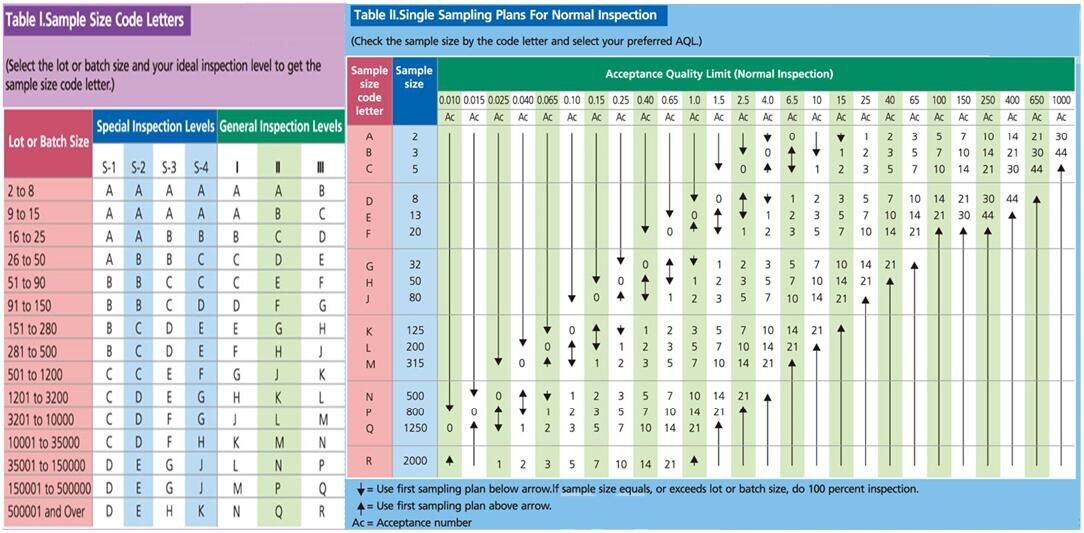
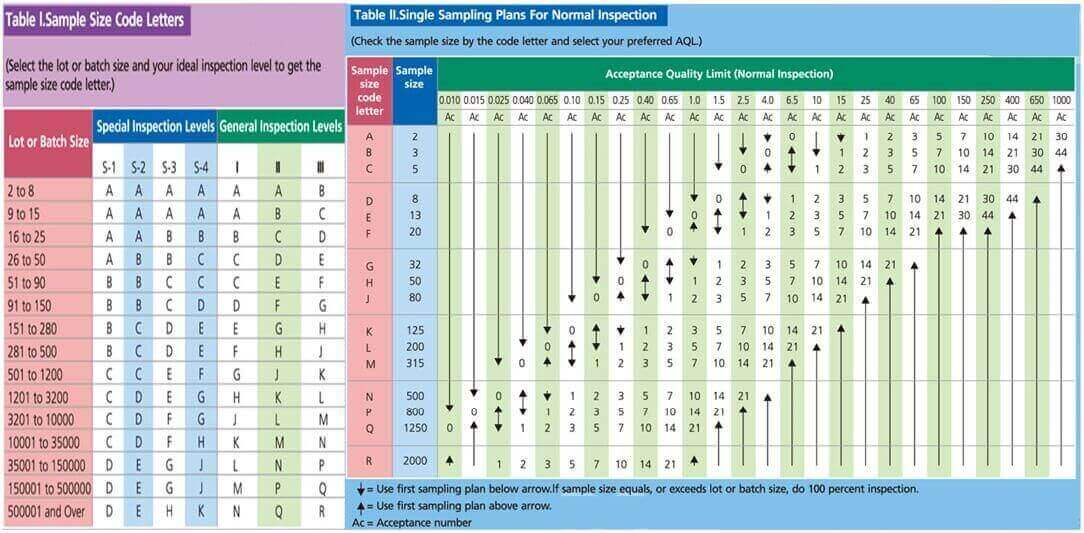
fix: remove trailing slashes from /services and /contact internal links (14x)

diff --git a/industry-updates/ansi-asq-z1-4-guide.html b/industry-updates/ansi-asq-z1-4-guide.html
@@ -138,7 +138,7 @@ Understand the hands-on inspection standard: Product Category Applications & Pra
             <tr><td data-zh="特殊检验水平">Special Inspection</td><td>S-1 ~ S-4</td><td data-zh="极小">Very small</td><td data-zh="样本采集成本极高，或批量极大但缺陷无功能性影响">Destructive tests, very large lots, non-functional defects</td></tr>
           </tbody>
         </table>
-        <p><span data-zh="实际使用中，一般检验水平II是绝对的主力——约95%的常规<a href='/services/'><strong>产品检验</strong></a>都采用这一水平。">In practice, <strong>General Inspection Level II</strong> is the workhorse — approximately 95% of all routine </span><a href="/services/"><strong>product inspections</strong></a><span> use this level.</span></p>
+        <p><span data-zh="实际使用中，一般检验水平II是绝对的主力——约95%的常规<a href='/services/'><strong>产品检验</strong></a>都采用这一水平。">In practice, <strong>General Inspection Level II</strong> is the workhorse — approximately 95% of all routine </span><a href="/services"><strong>product inspections</strong></a><span> use this level.</span></p>
 
         <h3 data-zh="2.2 AQL 值的设定">2.2 Setting AQL Values</h3>
         <p data-zh="AQL代表客户可接受的整批产品平均缺陷率上限。常用AQL值包括：0.065、0.10、0.15、0.25、0.40、0.65、1.0、1.5、2.5、4.0、6.5。不同缺陷等级通常设定不同的AQL值：">AQL represents the customer&rsquo;s acceptable maximum average defect rate for a lot. Common AQL values range from 0.065 to 6.5. Different defect categories typically have different AQL values:</p>
@@ -167,7 +167,7 @@ Understand the hands-on inspection standard: Product Category Applications & Pra
         </table>
         <p data-zh="这种机制通过经济和质量的双重压力，激励供应商持续维持良好的过程质量。一旦切换至加严检验，供应商的货物被拒收的概率大幅上升——没有人愿意冒这个风险。">This mechanism creates both an economic and quality-based incentive for <a href="/services#audit">suppliers</a> to maintain consistent process quality. Once switched to tightened inspection, the probability of lot rejection increases significantly — and no supplier wants to risk that.</p>
 
-        <img src="/Upload/aql-guide/aql-flow.jpg" alt="ANSI/ASQ Z1.4 Five-Step AQL Sampling Inspection Process Flowchart" loading="lazy" onerror="this.style.display='none'" width="800" height="600">
+        <img src="/Upload/aql-guide/aql-flow.png" alt="ANSI/ASQ Z1.4 Five-Step AQL Sampling Inspection Process Flowchart" loading="lazy" onerror="this.style.display='none'" width="800" height="600">
         <p class="figure-caption" data-zh="ANSI/ASQ Z1.4 AQL抽样检验五步操作流程">Figure: ANSI/ASQ Z1.4 Sampling Inspection — The 5-Step Process</p>
 
         <h2 data-zh="三、实际操作流程（五步法）">3. Practical Implementation: The Five-Step Process</h2>
@@ -183,7 +183,7 @@ Understand the hands-on inspection standard: Product Category Applications & Pra
         <span data-zh="必须严格随机抽取样本——杜绝工厂刻意挑选"合格"样品的做法。统计各类缺陷数量，与Ac/Re对比做出接收或拒收的决定。抽查不是随便抽几个看看，而是一个有统计学依据的严谨过程。">Samples must be drawn strictly at random — no cherry-picking of &ldquo;good&rdquo; units by the factory. Count defects by class and compare against Ac/Re to make the accept/reject decision. Sampling inspection is not a casual glance at a few units — it is a rigorous, statistically grounded process.</span></p>
 
         <img src="/Upload/aql-guide/aql-products.jpg" alt="Product inspection across different categories: textiles, electronics, toys, and hardware" loading="lazy" onerror="this.style.display='none'" width="800" height="600">
-        <p class="figure-caption"><span data-zh="不同产品类目的检验场景：纺织服装、电子电器、玩具婴童、五金机械">Figure: </span><a href="/services/">Product Inspection</a><span> Across Different Categories — Textiles, Electronics, Toys &amp; Hardware</span></p>
+        <p class="figure-caption"><span data-zh="不同产品类目的检验场景：纺织服装、电子电器、玩具婴童、五金机械">Figure: </span><a href="/services">Product Inspection</a><span> Across Different Categories — Textiles, Electronics, Toys &amp; Hardware</span></p>
 
         <h2 data-zh="四、不同产品类目的应用差异">4. Product Category Application Differences</h2>
         <p data-zh="Z1.4 / ISO 2859-1 适用于几乎所有制造业产品。但在不同产品类目中，检验水平和AQL的选择存在实际差异——一刀切的设定会让你的品控策略要么过于宽松、要么成本过高。">Z1.4 / ISO 2859-1 applies to virtually all manufactured goods. However, the choice of inspection level and AQL varies meaningfully across product categories — a one-size-fits-all approach will leave your QC strategy either too lax or unnecessarily expensive.</p>
@@ -272,8 +272,8 @@ Understand the hands-on inspection standard: Product Category Applications & Pra
 
         <h2 data-zh="总结">Conclusion</h2>
         <p data-zh="ANSI/ASQ Z1.4（ISO 2859-1）是全球最成熟、应用最广泛的计数抽样检验标准。它通过科学的样本量设计、灵活的严格度切换机制和清晰的AQL体系，帮助全球买家以合理的成本控制产品质量风险。">ANSI/ASQ Z1.4 (ISO 2859-1) is the most mature and widely applied acceptance sampling standard in the world. Through scientifically designed sample sizes, flexible severity switching, and a clear AQL framework, it helps global buyers control product quality risks at a reasonable cost.</p>
-        <p><span data-zh="对于从中国采购的进口商而言，掌握这一标准的核心逻辑——在合同中明确AQL要求、在验货中准确判定结果、在与供应商博弈中占据主动——不是可选项，而是基本功。">For importers </span><a href="/services#inspection"><span data-zh="从中国采购">sourcing from China</span></a><span>, understanding the core logic of this standard — defining AQL in contracts, making accurate acceptance decisions during </span><a href="/services/">inspection</a><span>, and maintaining leverage in supplier negotiations — is not optional; it&rsquo;s fundamental.</span></p>
-        <p><span data-zh="有关于AQL抽样标准的具体问题？欢迎联系CNQ的技术团队——我们处理过数千批不同产品的AQL抽样检验，乐于分享实际经验。">Have specific questions about AQL sampling standards? Feel free to contact our technical team at </span><a href="/contact/">CNQ</a><span> — we&rsquo;ve conducted thousands of AQL-based sampling inspections across virtually every product category.</span></p>
+        <p><span data-zh="对于从中国采购的进口商而言，掌握这一标准的核心逻辑——在合同中明确AQL要求、在验货中准确判定结果、在与供应商博弈中占据主动——不是可选项，而是基本功。">For importers </span><a href="/services#inspection"><span data-zh="从中国采购">sourcing from China</span></a><span>, understanding the core logic of this standard — defining AQL in contracts, making accurate acceptance decisions during </span><a href="/services">inspection</a><span>, and maintaining leverage in supplier negotiations — is not optional; it&rsquo;s fundamental.</span></p>
+        <p><span data-zh="有关于AQL抽样标准的具体问题？欢迎联系CNQ的技术团队——我们处理过数千批不同产品的AQL抽样检验，乐于分享实际经验。">Have specific questions about AQL sampling standards? Feel free to contact our technical team at </span><a href="/contact">CNQ</a><span> — we&rsquo;ve conducted thousands of AQL-based sampling inspections across virtually every product category.</span></p>
       </div>
 
       

diff --git a/factory-resource/children-tent-zhejiang.html b/factory-resource/children-tent-zhejiang.html
@@ -121,7 +121,7 @@
 
         <p data-zh="在评估中国的儿童帐篷工厂或室内帐篷供应商时，分析历史批次一致性为全球买家提供了关键数据。我们不认可或推荐特定供应商；我们编制的是现场例行工作中捕获的真实运营数据。">When evaluating a <strong>children tent factory</strong> or an <strong>indoor tent supplier</strong> in China, analyzing historical batch consistency provides critical data for global buyers. We do not endorse or recommend specific vendors; instead, we compile real-world operational data captured during our on-site routines.</p>
 
-        <p><span data-zh="过去一年中，我们的独立品控技术人员被派往这家浙江帐篷制造商，为5家不同客户进行了5次独立检验。在这5次不同的生产运行中，记录的工艺数据和缺陷率均保持在标准可接受范围内。">Over the past year, our independent </span><a href="/services/">quality control</a><span> technicians have been deployed to this exact <strong>Zhejiang tent manufacturer</strong> 5 separate times for 5 different clients. Across these 5 distinct production runs, the recorded workmanship data and defect ratios remained within standard acceptable limits.</span></p>
+        <p><span data-zh="过去一年中，我们的独立品控技术人员被派往这家浙江帐篷制造商，为5家不同客户进行了5次独立检验。在这5次不同的生产运行中，记录的工艺数据和缺陷率均保持在标准可接受范围内。">Over the past year, our independent </span><a href="/services">quality control</a><span> technicians have been deployed to this exact <strong>Zhejiang tent manufacturer</strong> 5 separate times for 5 different clients. Across these 5 distinct production runs, the recorded workmanship data and defect ratios remained within standard acceptable limits.</span></p>
 
         <p data-zh="以下是来自这家中国儿童帐篷工厂的客观结构化数据，供国际婴儿用品和玩具买家作为背景参考。">Below is the objective structural data logged from this <strong>China children tent factory</strong> for international baby product and toy buyers to use as background reference.</p>
 
@@ -144,7 +144,7 @@
 
         <h2 data-zh="儿童帐篷的技术观察">Technical Observations on Children Tents</h2>
 
-        <p><span data-zh="儿童室内帐篷必须符合全球严格的物理和化学安全法规（如EN71或ASTM F963）。在我们5次现场产品检验中，工程检查清单重点关注以下方面的经常性缺陷跟踪：">Children's indoor tents must comply with strict physical and chemical safety regulations globally (such as EN71 or ASTM F963). During our 5 on-site </span><a href="/services/"><strong>product inspections in China</strong></a><span>, our engineering checklists focused on tracking recurring flaws in these specific areas:</span></p>
+        <p><span data-zh="儿童室内帐篷必须符合全球严格的物理和化学安全法规（如EN71或ASTM F963）。在我们5次现场产品检验中，工程检查清单重点关注以下方面的经常性缺陷跟踪：">Children's indoor tents must comply with strict physical and chemical safety regulations globally (such as EN71 or ASTM F963). During our 5 on-site </span><a href="/services"><strong>product inspections in China</strong></a><span>, our engineering checklists focused on tracking recurring flaws in these specific areas:</span></p>
 
         <ul style="list-style: disc; margin-left: 24px; margin-bottom: 20px;">
           <li style="margin-bottom: 14px; color: var(--text-body);">

diff --git a/inspection-cases/metal-shed-sharp-edge.html b/inspection-cases/metal-shed-sharp-edge.html
@@ -119,7 +119,7 @@
 
         <h2 data-zh="产品检验发现：一个真实的工厂案例">Product Inspection Finding: A Real Factory Case Study</h2>
 
-        <p><span data-zh="此缺陷是在中国一家工厂对花园金属棚进行现场检验时发现的。">This defect was found during an on-site </span><a href="/services/"><strong>product inspection</strong></a><span> for a <strong>garden metal shed</strong> at a factory in China.</span></p>
+        <p><span data-zh="此缺陷是在中国一家工厂对花园金属棚进行现场检验时发现的。">This defect was found during an on-site </span><a href="/services"><strong>product inspection</strong></a><span> for a <strong>garden metal shed</strong> at a factory in China.</span></p>
 
         <p data-zh="当我们的检验员到达工厂车间时，销售代表信心满满地迎接了他。">When our inspector arrived at the factory floor, the sales representative greeted him with immense confidence. <em>"We are one of China's top three manufacturers specializing in outdoor metal sheds and plastic sunrooms, actually it is also the world's top three. Major global brands source from us due to our flawless quality and elite R&amp;D capabilities. Quality is guaranteed — you can sit back and relax in the executive lounge."</em></p>
 
@@ -262,7 +262,7 @@
 
         <h3 data-zh="为您下一笔金属产品订单的经验教训">Lessons for Your Next Metal Product Order</h3>
 
-        <p><span data-zh="本案例分析是我们持续与买家、品牌商和采购专业人士分享真实、一线检验发现的努力的一部分。目标很简单：帮助您了解生产中可能出现的问题 — 以及如何在它耗费您时间、金钱和声誉之前预防它。">This case study is part of our ongoing effort to share real, on-the-ground </span><a href="/services/"><strong>product inspection</strong></a><span> findings with buyers, brand owners, and sourcing professionals. The goal is simple: <strong>help you understand what can go wrong in production — and how to prevent it before it costs you time, money, and reputation.</strong></span></p>
+        <p><span data-zh="本案例分析是我们持续与买家、品牌商和采购专业人士分享真实、一线检验发现的努力的一部分。目标很简单：帮助您了解生产中可能出现的问题 — 以及如何在它耗费您时间、金钱和声誉之前预防它。">This case study is part of our ongoing effort to share real, on-the-ground </span><a href="/services"><strong>product inspection</strong></a><span> findings with buyers, brand owners, and sourcing professionals. The goal is simple: <strong>help you understand what can go wrong in production — and how to prevent it before it costs you time, money, and reputation.</strong></span></p>
 
         <p data-zh="这个案例特别有说服力，因为该缺陷多年来一直隐藏在显而易见的地方。一个产品可能被制造和装运多年并且带有安全缺陷 — 并且没有人注意到，直到拥有正确专业知识的人来看它。工厂的设计团队从未将此视为问题。但一旦被指出，它立刻就变得显而易见了。">This case is particularly telling because the defect had been hiding in plain sight for years. A product can be manufactured and shipped for years with a safety defect — and no one notices, until someone with the right expertise looks at it. The factory's design team had never considered this an issue. But once it was pointed out, it was immediately obvious.</p>
 

diff --git a/inspection-cases/ss-bottle-polishing.html b/inspection-cases/ss-bottle-polishing.html
@@ -164,7 +164,7 @@
 
         <h2 data-zh="根因分析：抛光不良为什么会发生？">Root Cause Analysis: Why Does Poor Polishing Happen?</h2>
 
-        <p><span data-zh="基于我们在现场验货的经验，不锈钢瓶上的抛光不良通常源于以下一个或多个因素：">Based on our on-site </span><a href="/services/"><strong>product inspection</strong></a><span> experience, poor polishing on stainless steel bottles typically stems from one or more of the following factors:</span></p>
+        <p><span data-zh="基于我们在现场验货的经验，不锈钢瓶上的抛光不良通常源于以下一个或多个因素：">Based on our on-site </span><a href="/services"><strong>product inspection</strong></a><span> experience, poor polishing on stainless steel bottles typically stems from one or more of the following factors:</span></p>
 
         <h3 data-zh="1. 工艺水平不佳和技能不足">1. Poor Workmanship and Inadequate Skill</h3>
 
@@ -275,7 +275,7 @@
 
         <h2 data-zh="这对您的不锈钢订单意味着什么">What This Polishing Defect Means for Your Stainless Steel Orders</h2>
 
-        <p><span data-zh="这个案例研究是我们持续与买家、品牌所有者和采购专业人士分享真实、实地发现的一部分。目标很简单：**帮助您理解生产过程中可能出现的问题——并在它们花费您时间、金钱和声誉之前防止它。**">This case study is part of our ongoing effort to share real, on-the-ground </span><a href="/services/"><strong>product inspection</strong></a><span> findings with buyers, brand owners, and sourcing professionals. The goal is simple: <strong>help you understand what can go wrong in production — and how to prevent it before it costs you time, money, and reputation.</strong></span></p>
+        <p><span data-zh="这个案例研究是我们持续与买家、品牌所有者和采购专业人士分享真实、实地发现的一部分。目标很简单：**帮助您理解生产过程中可能出现的问题——并在它们花费您时间、金钱和声誉之前防止它。**">This case study is part of our ongoing effort to share real, on-the-ground </span><a href="/services"><strong>product inspection</strong></a><span> findings with buyers, brand owners, and sourcing professionals. The goal is simple: <strong>help you understand what can go wrong in production — and how to prevent it before it costs you time, money, and reputation.</strong></span></p>
 
         <p data-zh="**关键要点：** 一个工厂可以拥有最大的屏幕、最好的品牌和最骄傲的声明——但质量不在营销里，它在产品中。而验证它的唯一方式是亲自检查。"><strong>Key takeaway:</strong> A factory can have the biggest screen, the best branding, and the proudest claims — but quality is not in the marketing. It's in the product. And the only way to verify it is to check it yourself.</p>
 

diff --git a/factory-resource/display-rack-zhejiang.html b/factory-resource/display-rack-zhejiang.html
@@ -115,7 +115,7 @@
 
           <h2>Inspector's Field Logs: Display Rack &amp; Stand Factory in Zhejiang</h2>
 
-          <p>When evaluating a <strong>display rack factory</strong> or <strong>display stand manufacturer</strong> in China, analyzing production capacity and storage conditions provides critical data for global buyers. We do not endorse or recommend specific vendors; instead, we compile real-world operational data captured during our on-site routines as part of our <a href="/services/"><strong>product inspection service in China</strong></a>.</p>
+          <p>When evaluating a <strong>display rack factory</strong> or <strong>display stand manufacturer</strong> in China, analyzing production capacity and storage conditions provides critical data for global buyers. We do not endorse or recommend specific vendors; instead, we compile real-world operational data captured during our on-site routines as part of our <a href="/services"><strong>product inspection service in China</strong></a>.</p>
 
           <p>This factory was visited for a pre-shipment inspection commissioned by a US retailer sourcing supermarket display racks and display stands. For large-scale injection-molded products, two factors are particularly important: <strong>in-house injection molding capacity</strong> and <strong>storage conditions</strong>.</p>
 
@@ -143,7 +143,7 @@
 
           <h2>Technical Observations on Display Racks &amp; Stands</h2>
 
-          <p>Large injection-molded display racks and stands must meet specific requirements for dimensional accuracy, assembly fit, and structural integrity. During our on-site <a href="/services/"><strong>product inspection in China</strong></a>, our engineering checklist focused on two critical areas:</p>
+          <p>Large injection-molded display racks and stands must meet specific requirements for dimensional accuracy, assembly fit, and structural integrity. During our on-site <a href="/services"><strong>product inspection in China</strong></a>, our engineering checklist focused on two critical areas:</p>
 
           <ul style="list-style:disc;padding-left:24px;margin-bottom:20px;">
             <li style="margin-bottom:12px;"><strong>In-House Injection Molding Capacity:</strong> Having in-house injection molding machines is essential for this product category. It allows the factory to control production capacity and lead times independently. More importantly, it enables immediate <strong>"fit testing"</strong> — verifying product dimensions and assembly fit as soon as parts come out of the mold, rather than waiting for downstream assembly.</li>

diff --git a/about.html b/about.html
@@ -143,7 +143,7 @@
               <p data-zh="厦门亚商技术检验检测有限公司 是一家专业的第三方品质控制咨询公司，致力于为全球客户提供独立、客观的品质检验与咨询服务。公司总部位于福建省厦门市同安区西福路120号232单元，服务网络覆盖中国主要制造业基地及东南亚地区。">On July 11, 2009, two senior project engineers crossed paths at an electronics factory in Dongguan city, Guangdong, China. By chance, they were seated together at lunch—and what started as a casual conversation quickly revealed a shared obsession: product engineering. That evening, instead of heading back to their respective companies, they continued their discussion and realized that the common administrative approach in the third-party inspection industry often neglected the technical substance required for true quality control. That night, China Quality Service (CNQ) was formed.</p>
               <div>
                 <img src="/images/about-founding.jpg" alt="Two founding engineers of China Quality Service meeting at a factory in Dongguan, China, 2009 — the moment CNQ was conceived" loading="lazy" width="1200" height="800" onerror="this.style.display='none'">
-                <div class="figure-caption" data-zh="2009年7月11日，东莞某电子厂食堂。两位资深工程师的一次偶遇，诞生了厦门亚商（CNQ）。">July 11, 2009. A chance lunch - 2 engineers formed CNQ</div>
+                <div class="figure-caption" data-zh="2009年7月11日，东莞某电子厂食堂。两位资深工程师的一次偶遇，诞生了厦门亚商（CNQ）。">July 11, 2009. A chance lunch - 2 Senior Eng. formed CNQ</div>
               </div>
             </div>
             <p><span data-zh="自成立以来，厦门亚商技术检验检测有限公司始终秉持独立、客观和毫不妥协的专业精神这一核心原则。我们作为客户在工厂现场的眼睛，致力于降低供应链风险，确保每一批货物严格符合国际标准。">Since our founding, CNQ has upheld the core principles of independence, objectivity, and uncompromising professionalism to be a boots-on-the-ground third-party inspection company. We serve as our clients' hands-on quality control partner— with inspection networks across all major manufacturing hubs in China and Asia, mitigating supply chain risks and ensuring every shipment complies with global standards.</span></p>

diff --git a/factory-resource/wuyishan-tea-factory.html b/factory-resource/wuyishan-tea-factory.html
@@ -233,7 +233,7 @@
 
         <h2 data-zh="让 CNQ 帮您安全采购中国茶叶">Let CNQ Help You Source Chinese Tea Safely</h2>
 
-        <p><span data-zh="如果你正在考虑从这个工厂——或任何中国的茶叶供应商——采购，一次独立的工厂审核是你的第一道防线。在 CNQ，我们的审核员在中国农业和食品加工品质控制方面拥有超过 17 年的一线经验。我们可以帮助你：">If you're considering sourcing from this factory — or any </span><a href="/factory-resource/"><strong>tea supplier in China</strong></a><span> — an independent </span><a href="/services#audit"><strong>factory audit</strong></a><span> is your first line of defense. At CNQ, our auditors have over 17 years of hands-on experience in agricultural and food-processing </span><a href="/services/"><strong>quality control</strong></a><span> across China. We can help you:</span></p>
+        <p><span data-zh="如果你正在考虑从这个工厂——或任何中国的茶叶供应商——采购，一次独立的工厂审核是你的第一道防线。在 CNQ，我们的审核员在中国农业和食品加工品质控制方面拥有超过 17 年的一线经验。我们可以帮助你：">If you're considering sourcing from this factory — or any </span><a href="/factory-resource/"><strong>tea supplier in China</strong></a><span> — an independent </span><a href="/services#audit"><strong>factory audit</strong></a><span> is your first line of defense. At CNQ, our auditors have over 17 years of hands-on experience in agricultural and food-processing </span><a href="/services"><strong>quality control</strong></a><span> across China. We can help you:</span></p>
 
         <ul>
           <li data-zh="验证供应商的真实身份——他们是真正的种植者、加工商，还是只是贸易型中间商？">Verify your supplier's true identity — are they a genuine grower/processor, or just a trading intermediary?</li>

diff --git a/factory-resource/qinteng-3d-print.html b/factory-resource/qinteng-3d-print.html
@@ -204,7 +204,7 @@
         <div class="figure-caption" data-zh="检验批次的最后一个样品。">Final sample from the inspected batch.</div>
 
         <blockquote>
-          <p>💡 <strong data-zh="免责声明：">Disclaimer:</strong> <span data-zh="此3D打印玩具档案是一次特定质量控制结果的历史记录。我们与该供应商没有任何财务关联、合作关系或商业协议。每个生产批次都有所不同；买家应自行决定是否为各自的订单进行独立的产品检验，以验证当前规格。">This <strong>3D Printing toy</strong> profile is a historical record of 1 specific quality control outcome. We maintain no financial alignment, partnerships, or commercial agreements with this supplier. <em>Every production lot varies; buyers should decide whether perform independent <a href="/services/">product inspections</a> for their individual orders to verify current specifications.</em></span></p>
+          <p>💡 <strong data-zh="免责声明：">Disclaimer:</strong> <span data-zh="此3D打印玩具档案是一次特定质量控制结果的历史记录。我们与该供应商没有任何财务关联、合作关系或商业协议。每个生产批次都有所不同；买家应自行决定是否为各自的订单进行独立的产品检验，以验证当前规格。">This <strong>3D Printing toy</strong> profile is a historical record of 1 specific quality control outcome. We maintain no financial alignment, partnerships, or commercial agreements with this supplier. <em>Every production lot varies; buyers should decide whether perform independent <a href="/services">product inspections</a> for their individual orders to verify current specifications.</em></span></p>
         </blockquote>
 
       </div>

diff --git a/inspection-cases/safety-vest-velcro.html b/inspection-cases/safety-vest-velcro.html
@@ -119,7 +119,7 @@
 
           <h2>Product Inspection Finding</h2>
 
-          <p>This case study stems from a recent pre-shipment inspection commissioned by a Mexican importer targeting a batch of reflective safety vests. It is a standout example of how our <a href="/services/"><strong>product inspection service in China</strong></a> can make a real difference — even when the factory pushes back.</p>
+          <p>This case study stems from a recent pre-shipment inspection commissioned by a Mexican importer targeting a batch of reflective safety vests. It is a standout example of how our <a href="/services"><strong>product inspection service in China</strong></a> can make a real difference — even when the factory pushes back.</p>
 
           <p>As our inspector later recounted, the factory showed immense resistance from the very beginning — before he even set foot on site. The full story of how a hostile factory environment turned into mutual professional respect is worth sharing.</p>
 
@@ -254,7 +254,7 @@
 
           <hr>
 
-          <p>Have a similar quality issue? Feel free to reach out — we're happy to share our experience with our <a href="/services/"><strong>product inspection service in China</strong></a>.</p>
+          <p>Have a similar quality issue? Feel free to reach out — we're happy to share our experience with our <a href="/services"><strong>product inspection service in China</strong></a>.</p>
 
         </div>
 

diff --git a/industry-updates/news-detail.html b/industry-updates/news-detail.html
@@ -142,7 +142,7 @@
         <p data-zh="欧盟法规更新频繁，企业应建立法规追踪机制，及时了解最新要求并做出相应调整。">EU regulations are frequently updated. Enterprises should establish regulatory tracking mechanisms to stay informed of the latest requirements and make corresponding adjustments.</p>
 
         <h3 data-zh="四、让 CNQ 质量服务保障您的合规">4. Let CNQ Quality Services Secure Your Market Compliance</h3>
-        <p><span data-zh="厦门亚商 拥有丰富的欧盟市场合规经验，可以为出口企业提供以下支持：">As a leading </span><a href="/services/">product inspection service in China</a><span>, CNQ has extensive EU market compliance experience and provides the following support for exporters:</span></p>
+        <p><span data-zh="厦门亚商 拥有丰富的欧盟市场合规经验，可以为出口企业提供以下支持：">As a leading </span><a href="/services">product inspection service in China</a><span>, CNQ has extensive EU market compliance experience and provides the following support for exporters:</span></p>
         <ul class="about-list">
           <li data-zh="CE认证咨询服务，包括产品分类、适用指令确定">CE certification consulting services, including product classification and applicable directive determination</li>
           <li data-zh="产品检验与测试安排">Product inspection and testing arrangements</li>

diff --git a/industry-updates/news-detail-9.html b/industry-updates/news-detail-9.html
@@ -67,7 +67,7 @@
       <button onclick="changeFontSize('large',this)" data-zh="大">L</button>
     </div>
     <div class="article-body fade-in" id="articleContent">
-      <p>Artificial intelligence is transforming quality control on China's factory floors. Computer vision systems now detect microscopic defects at speeds impossible for human inspectors. Learn how AI inspection complements traditional <a href="/services/">product inspection services in China</a>, achieving 99.5%+ defect detection rates in pilot implementations.</p>
+      <p>Artificial intelligence is transforming quality control on China's factory floors. Computer vision systems now detect microscopic defects at speeds impossible for human inspectors. Learn how AI inspection complements traditional <a href="/services">product inspection services in China</a>, achieving 99.5%+ defect detection rates in pilot implementations.</p>
       <h3>1. The Rise of AI Visual Inspection</h3>
       <p>Traditional visual inspection relies on human inspectors who can typically process 30-60 units per hour with a sustained defect detection rate of around 85-90%. AI-powered computer vision systems, by contrast, can inspect hundreds of units per minute with defect detection rates exceeding 99.5%, while never suffering from fatigue, distraction, or inconsistency.</p>
       <h3>2. Key Technologies Driving AI QC</h3>

diff --git a/industry-updates/news-detail-8.html b/industry-updates/news-detail-8.html
@@ -76,7 +76,7 @@
       <p><strong>Reporting Obligations:</strong> Exporters must provide precise embedded carbon data (Scope 1 &amp; Scope 2 emissions), requiring comprehensive MRV systems in factories.</p>
       <p><strong>Supply Chain Transparency:</strong> CBAM requires emissions traceability back to raw materials, demanding new data management capabilities from Chinese suppliers.</p>
       <h3>3. Integrating QC with Carbon Compliance</h3>
-      <p>Third-party inspection companies can serve as carbon data verifiers — adding energy metering checks, production emission parameter verification, and MRV system assessments to <a href="/services/">factory audits</a>, helping exporters build credible carbon data chains.</p>
+      <p>Third-party inspection companies can serve as carbon data verifiers — adding energy metering checks, production emission parameter verification, and MRV system assessments to <a href="/services">factory audits</a>, helping exporters build credible carbon data chains.</p>
       <h3>4. Strategies for Exporters</h3>
       <ul class="about-list">
         <li>Conduct carbon footprint assessments for lifecycle emissions</li>
